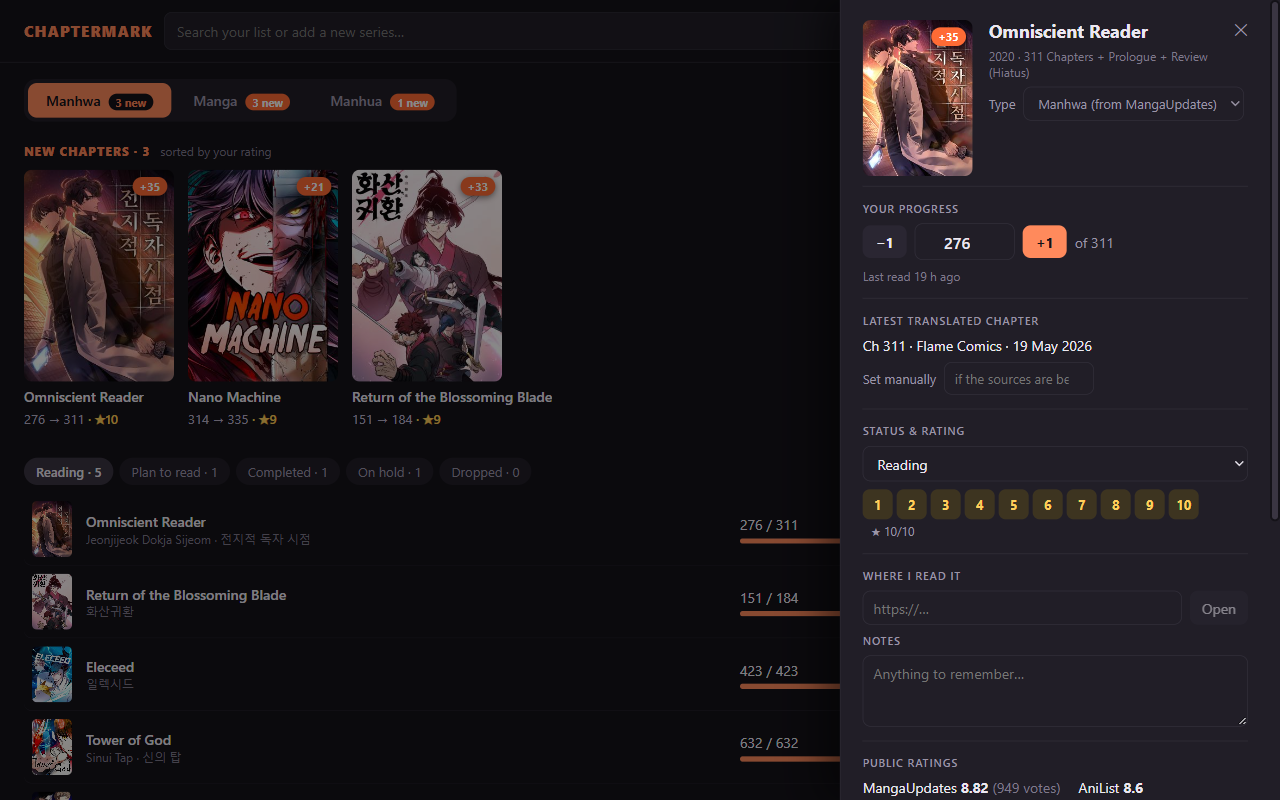
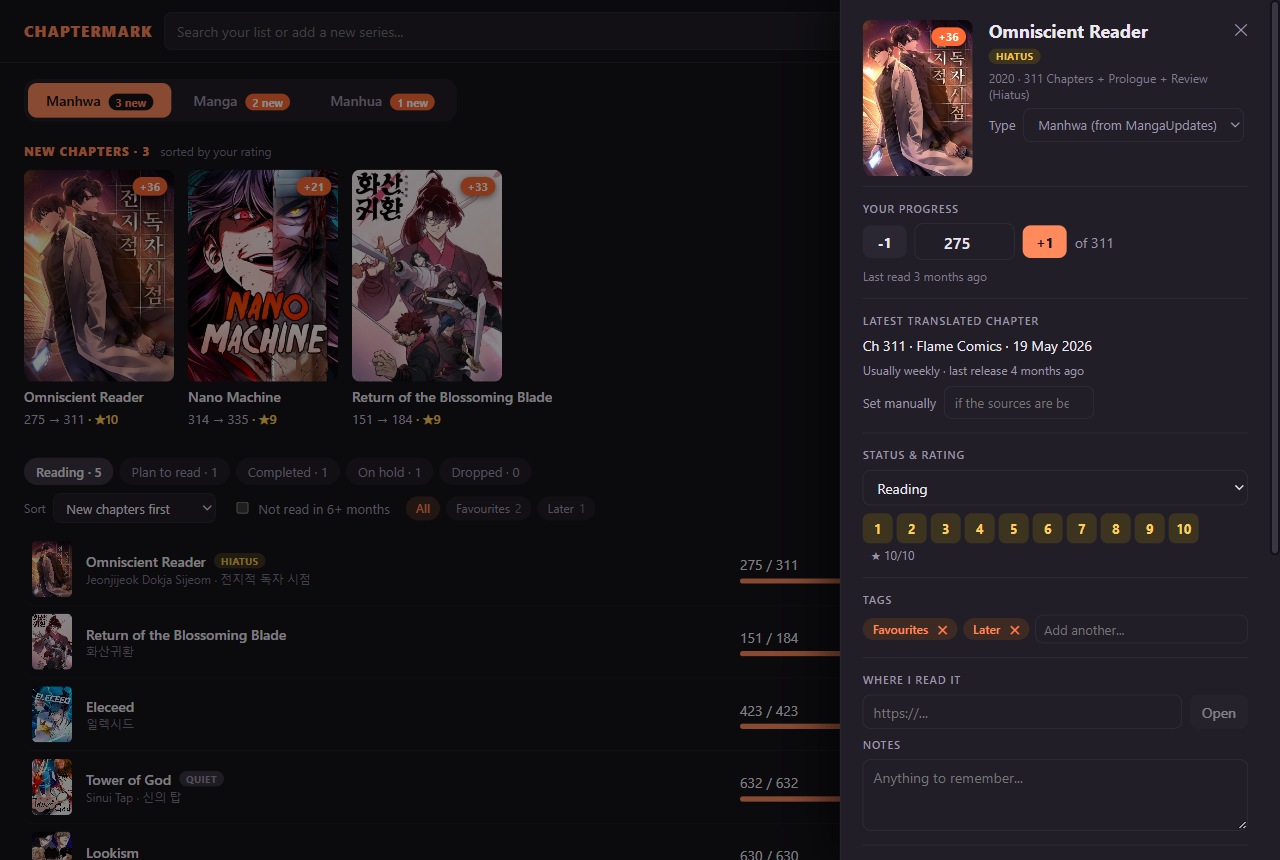
Fix panel badge width; README and screenshots for sort, rhythm and tags

diff --git a/frontend/src/style.css b/frontend/src/style.css
@@ -220,7 +220,7 @@ button.link:hover { background: transparent; text-decoration: underline; }
 .status-badge.hiatus { background: #3d3420; color: #f2c14e; }
 .status-badge.finished { background: #1f3a2b; color: #7ad69a; }
 .status-badge.quiet { background: var(--surface-3); color: var(--muted); }
-.panel-head-text h2 .status-badge, .panel-head-text > .status-badge { vertical-align: 3px; }
+.panel-head-text > .status-badge { align-self: flex-start; margin-left: 0; }
 
 /* ---- Tags editor (series panel) ---- */
 .tag-editor { display: flex; flex-wrap: wrap; gap: 6px; align-items: center; }

diff --git a/README.md b/README.md
@@ -58,6 +58,18 @@ no matter which site you read it on, and shows you when new chapters have been t
     <td>One <code>.exe</code>. No installer, no account, nothing written outside its folder. Your list lives in a <code>data</code> folder next to the exe, so you can copy the folder to another PC and carry on.</td>
   </tr>
   <tr>
+    <td><b>Sort and filter</b></td>
+    <td>Sort by your rating, title, last read, new chapters and more, or show only the series you haven't read in 6 months.</td>
+  </tr>
+  <tr>
+    <td><b>Release rhythm</b></td>
+    <td>See how often a series gets new chapters and when the last one came out. Badges mark series that are on hiatus, finished, or have gone quiet.</td>
+  </tr>
+  <tr>
+    <td><b>Your own lists</b></td>
+    <td>Tag series with your own lists, like Favourites or Binge later, and filter by them.</td>
+  </tr>
+  <tr>
     <td><b>Backups</b></td>
     <td>A backup is saved every day you open the app (the last 10 are kept). You can also export your list to a single file and import it again. Your list opens offline.</td>
   </tr>
@@ -93,6 +105,9 @@ Requires Windows 10 or 11. It uses the Microsoft Edge WebView2 runtime that come
 - **Pick the type.** The **Manhwa / Manga / Manhua** switch shows one type at a time.
 - **See what's new.** The *New chapters* row lists the series you're reading (or have on hold) that have unread chapters, highest rated first.
 - **Update your progress.** Click a series and press **+1**, or type the chapter number. You can also set the status, your rating, notes and a link to where you read it.
+- **Sort and filter the list.** Use the bar above the list to change the order, show only series you haven't read in 6+ months, or pick one of your tags. Your choices are remembered.
+- **Tag series.** In a series panel, type a tag such as *Favourites* and press Enter. Rename or delete tags in Settings.
+- **Check the release rhythm.** The series panel shows how often new chapters usually come out and when the last one was released. **Hiatus**, **Finished** and **Quiet** badges appear next to a title when they apply.
 - **Stay up to date.** ChapterMark checks for new chapters when it starts and again every 6 hours while it's open. You can change the interval in Settings or check right away with the **Checked** button at the top. If the sources are behind, you can set the latest chapter yourself in the series panel.
 
 ## Where your data lives
